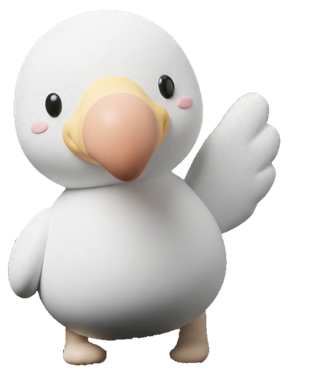
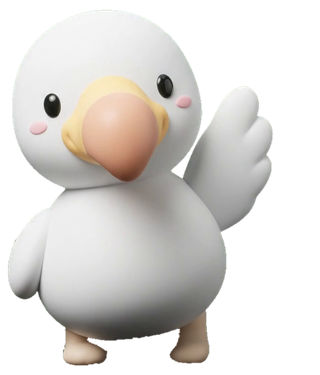
Dodo loop: clean wave segment (no video cut), ping-pong with holds; smaller dodo, bigger MELLOW
Claude-Session: https://claude.ai/code/session_013vVVeeAqF8RvpvEmNRFh9Q

diff --git a/styles_v2.css b/styles_v2.css
@@ -810,3 +810,5 @@ textarea.out{width:100%;min-height:130px;border-radius:12px;border:1px solid #dd
 .orbit .wordmark{position:absolute;left:0;width:390px;top:326px;text-align:center;font:800 30px/36px Inter;letter-spacing:.22em;padding-left:.22em;color:#3dffa0;text-shadow:0 0 22px rgba(61,255,160,.45)}
 .orbit .sphere.dodo{left:118px}
 .orbit img.wordmark{position:absolute;left:100px;width:190px;height:auto;top:326px;padding:0;text-shadow:none;letter-spacing:0;font:inherit;filter:drop-shadow(0 0 14px rgba(61,255,160,.25))}
+.orbit .sphere.dodo{width:168px;height:196px;left:131px;top:72px}
+.orbit img.wordmark{left:60px;width:270px;top:292px}
